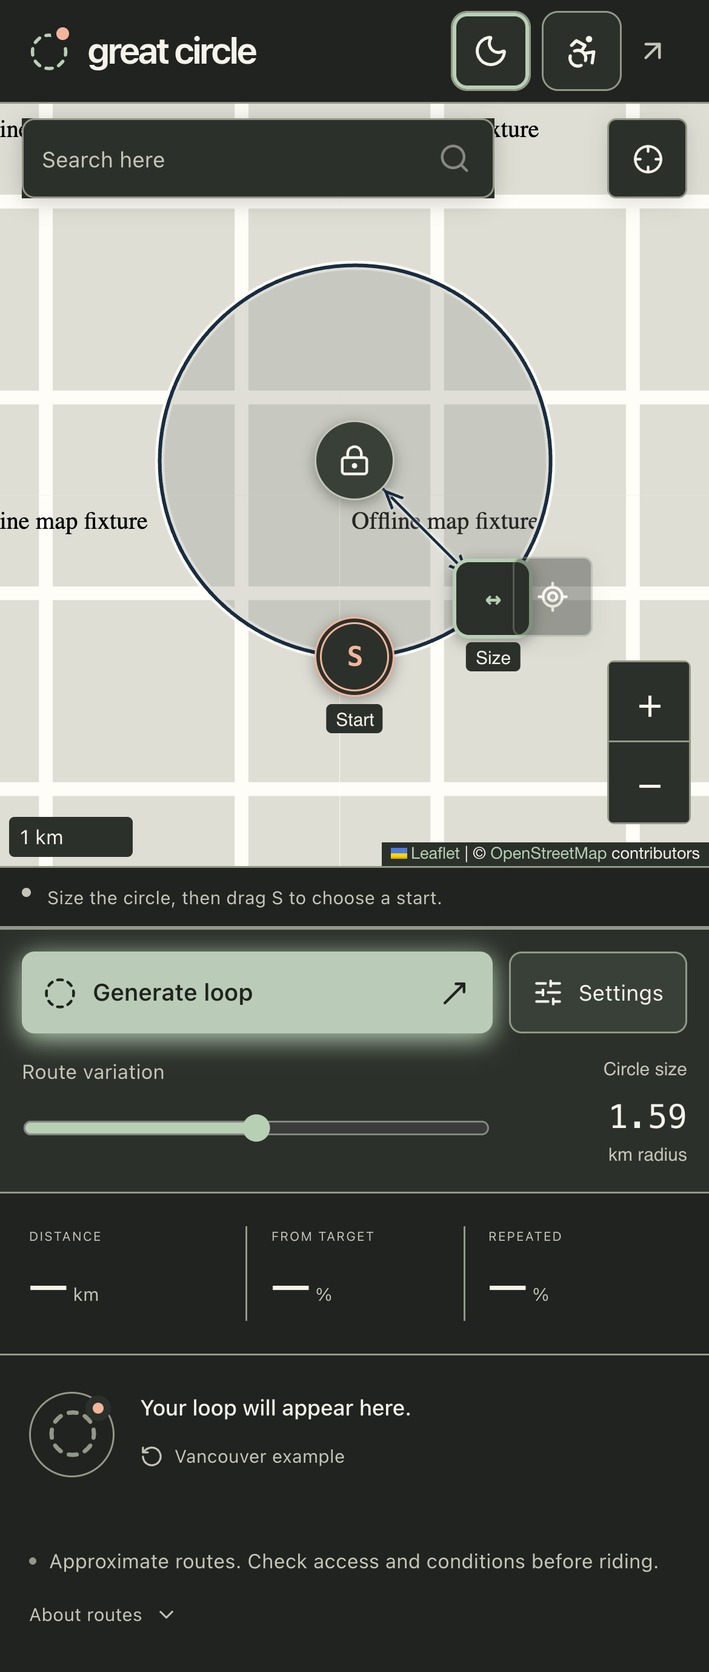
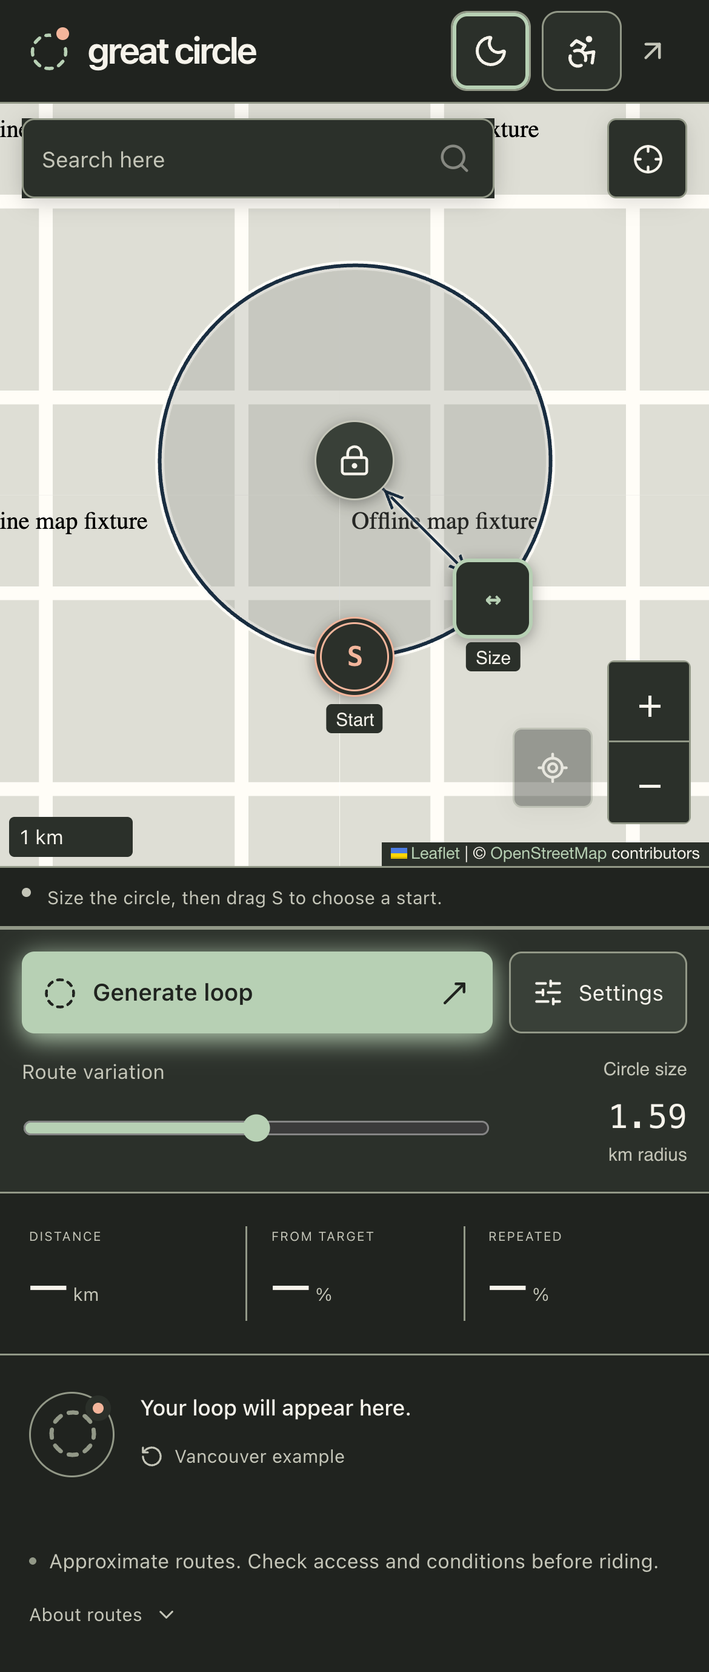
Keep map controls clear and apply theme colors atomically

Changed region(s): [[0.7385, 0.3119, 0.8615, 0.4055], [0.7077, 0.4367, 0.8615, 0.4991]]

diff --git a/src/style.css b/src/style.css
@@ -1,4 +1,4 @@
-:root{font-family:Inter,ui-sans-serif,-apple-system,BlinkMacSystemFont,"Segoe UI",sans-serif;color:var(--text);background:var(--bg);font-synthesis:none;text-rendering:optimizeLegibility;-webkit-font-smoothing:antialiased;font-weight:400;line-height:1.5;color-scheme:light dark;font-size:14px}*{box-sizing:border-box}body{margin:0;min-width:320px}button,input,select{font:inherit}button,a,input,select,summary{-webkit-tap-highlight-color:transparent}button{cursor:pointer}button:disabled{cursor:not-allowed;opacity:.45}a{color:inherit;text-decoration:none}button{display:inline-flex;align-items:center;justify-content:center;gap:8px;border:0;background:transparent;color:inherit}button,input,select{outline-offset:4px}button:focus-visible,a:focus-visible,summary:focus-visible{outline:2px solid var(--accent);outline-offset:4px}input:focus-visible,select:focus-visible{outline:2px solid var(--accent)}.app{max-width:1480px;margin:auto;padding:0 44px}.site-header{height:92px;border-bottom:1px solid var(--border);display:flex;align-items:center;justify-content:space-between}.brand{display:flex;align-items:center;gap:10px;font-size:23px;font-weight:650;letter-spacing:-1px}.brand-mark{color:var(--accent);position:relative;display:flex}.brand-mark i{width:7px;height:7px;position:absolute;top:0;right:0;background:var(--start);border-radius:50%;box-shadow:0 0 0 3px var(--bg)}.beta{font:9px/1.2 ui-monospace,SFMono-Regular,monospace;letter-spacing:1.2px;color:var(--muted);border:1px solid var(--border);padding:5px 7px;margin-left:12px;border-radius:4px}.header-link{display:flex;align-items:center;gap:8px;color:var(--muted);font-size:12px}.header-link:hover{color:var(--accent)}.intro{display:flex;align-items:center;justify-content:space-between;padding:36px 0 30px}.eyebrow{font-size:10px;letter-spacing:1.65px;font-weight:650;color:var(--muted);display:flex;align-items:center;gap:7px}.eyebrow>span{height:5px;width:5px;background:var(--start);border-radius:50%}h1{font-size:38px;line-height:1.15;letter-spacing:-1.7px;margin:10px 0 10px;font-weight:550}.intro p{margin:0;color:var(--muted);font-size:14px}.intro-note{display:flex;align-items:center;gap:13px;font-size:11px;line-height:1.8;color:var(--muted)}.intro-note svg{color:var(--accent)}.intro-note strong{color:var(--muted);font-weight:400}.workspace{display:grid;grid-template-columns:320px minmax(0,1fr);border:1px solid var(--border);border-radius:15px;overflow:hidden;background:var(--surface)}.planner{border-right:1px solid var(--border);background:var(--surface)}.panel-heading{height:53px;padding:0 23px;display:flex;align-items:center;justify-content:space-between;border-bottom:1px solid var(--border)}.panel-heading .eyebrow{color:var(--text);letter-spacing:1.5px}.tiny{font-family:ui-monospace,monospace;font-size:9px;color:var(--muted)}fieldset{padding:0;border:0;margin:0;min-width:0}.control-section{padding:22px 23px;border-bottom:1px solid var(--border)}.section-label{display:flex;align-items:center;gap:10px}.step{font:10px/22px ui-monospace,monospace;height:24px;width:24px;text-align:center;border:1px solid var(--border);border-radius:50%;color:var(--muted)}h2{font-size:13px;font-weight:550;margin:0;letter-spacing:-.15px}.helper{color:var(--muted);font-size:11px;line-height:1.7;margin:10px 0 14px}.segmented{display:flex;gap:3px;padding:4px;border:1px solid var(--border);background:var(--bg);border-radius:8px}.segmented button{flex:1;padding:8px 4px;font-size:11px;color:var(--muted);border-radius:5px}.segmented button.active{background:var(--raised);color:var(--text);box-shadow:0 1px 3px #0004}.segmented button.active svg{color:var(--accent)}.pin-readout{display:flex;align-items:center;gap:6px;font:10px ui-monospace,monospace;color:var(--muted);margin:14px 0 10px;white-space:nowrap}.pin-readout>span:last-child{margin-left:auto;font:8px ui-monospace,monospace;color:var(--muted);letter-spacing:.5px}.pin-dot{width:5px;height:5px;border:1px solid var(--accent);border-radius:50%}.coordinates{font-size:10px;color:var(--muted);margin-bottom:20px}.coordinates summary{display:flex;align-items:center;gap:5px;cursor:pointer;width:max-content}.coordinates summary::marker{content:''}.coordinates[open] summary{color:var(--muted);margin-bottom:10px}.coordinate-inputs{display:flex;gap:8px}.coordinate-inputs label{flex:1;min-width:0}.coordinate-inputs input{display:block;width:100%;background:var(--bg);border:1px solid var(--border);border-radius:5px;color:var(--text);padding:6px;margin:4px 0 8px;font:11px ui-monospace,monospace}.text-button{font-size:11px;padding:2px 0;color:var(--accent);gap:6px}.text-button:hover{color:var(--accent)}.input-error{color:var(--danger);font-size:11px}.range-label{display:flex;justify-content:space-between;align-items:center;font-size:11px;color:var(--muted)}.range-label output{font-size:14px;font-family:ui-monospace,monospace;color:var(--text)}.range-label small{color:var(--muted);font-size:10px}input[type=range]{width:100%;height:4px;accent-color:var(--accent);cursor:pointer;margin:15px 0 11px;display:block}.range-ends{display:flex;justify-content:space-between;font:9px ui-monospace,monospace;color:var(--muted)}.distance-input{display:flex;align-items:center;gap:10px;margin:19px 0 15px}.distance-input input{width:83px;background:none;border:0;border-bottom:1px solid var(--border);color:var(--text);line-height:1.1;font-size:39px;letter-spacing:-1.8px;padding:0 0 6px;-moz-appearance:textfield}.distance-input input::-webkit-inner-spin-button{display:none}.distance-input label{font-size:12px;color:var(--text);line-height:1.8}.distance-input small{display:block;color:var(--muted);font-size:10px}.distance-input>svg{color:var(--border);margin-left:auto}.quick-distances{display:flex;gap:6px;margin-bottom:17px}.quick-distances button{flex:1;border:1px solid var(--border);border-radius:5px;color:var(--muted);padding:6px 0;font-size:10px}.quick-distances button.active{border-color:var(--accent);color:var(--accent);background:var(--accent-bg)}.select-row{display:flex;justify-content:space-between;gap:10px;align-items:center;font-size:10px;color:var(--muted)}.select-row select{background:var(--raised);color:var(--text);border:1px solid var(--border);border-radius:5px;padding:6px 20px 6px 8px;font-size:10px;max-width:172px}.preferences .select-row{margin-top:16px}.preferences .helper{margin-bottom:0}.generate-area{padding:20px 23px 14px}.primary{width:100%;background:var(--accent);color:var(--on-accent);border-radius:7px;padding:12px 14px;gap:9px;font-weight:550;font-size:12px;box-shadow:0 3px 14px var(--accent);transition:background .15s}.primary svg:last-child{margin-left:auto}.primary:hover{background:var(--accent)}.primary.cancel{background:var(--raised);color:var(--text);border:1px solid var(--border)}.primary.cancel svg:last-child{margin-left:0}.request-note{font-size:9px;color:var(--muted);text-align:center;line-height:1.6;margin:10px 0 0}.route-space{min-width:0;display:flex;flex-direction:column}.map-shell{position:relative;height:460px;flex:none;background:var(--map-bg);isolation:isolate}.map{height:100%;width:100%;z-index:0}.map-topline{display:flex;position:absolute;top:18px;left:18px;right:18px;justify-content:space-between;align-items:flex-start;pointer-events:none}.map-tag,.map-button{background:var(--surface);border:1px solid var(--border);box-shadow:0 2px 12px #0002;color:var(--text);border-radius:5px;pointer-events:auto}.map-tag{padding:8px 10px;display:flex;align-items:center;gap:7px;font:9px ui-monospace,monospace;letter-spacing:1px}.live-dot{background:var(--start);height:5px;width:5px;border-radius:50%}.map-button{width:33px;height:33px}.map-hint{position:absolute;bottom:17px;left:50%;transform:translateX(-50%);background:var(--surface);border:1px solid var(--border);border-radius:6px;padding:8px 12px;font-size:10px;box-shadow:0 2px 12px #0002;color:var(--text);white-space:nowrap;pointer-events:none}.ideal-toggle{position:absolute;top:62px;right:18px;background:var(--surface);border:1px solid var(--border);border-radius:5px;padding:7px 10px;font-size:10px;color:var(--muted)}.ideal-toggle.selected{color:var(--warning)}.tile-warning{position:absolute;top:60px;left:18px;right:130px;background:var(--warning-bg);color:var(--warning);font-size:10px;line-height:1.5;padding:8px 10px;border-radius:5px}.leaflet-control-attribution{font-size:9px!important;background:var(--surface)!important;color:var(--muted)!important}.leaflet-control-attribution a{color:var(--accent)!important}.leaflet-control-scale-line{color:var(--text)!important;background:var(--surface)!important;border-color:var(--text)!important;font-size:9px!important;text-shadow:none!important}.leaflet-bar{border:1px solid var(--border)!important;box-shadow:none!important}.leaflet-bar a{background:var(--surface)!important;color:var(--text)!important;border-color:var(--border)!important}.start-icon{background:var(--surface);border:2px solid var(--start);border-radius:50%;color:var(--start);box-shadow:0 1px 7px #0005;font:600 11px/24px ui-monospace,monospace;text-align:center}.working .map{cursor:wait}.status-bar{height:45px;display:flex;align-items:center;gap:9px;padding:0 22px;font-size:10px;border-top:1px solid var(--border);border-bottom:1px solid var(--border);color:var(--muted)}.status-bar>svg{color:var(--accent);flex:none}.status-dot{width:5px;height:5px;border-radius:50%;background:var(--muted);flex:none}.local-badge{margin-left:auto;font:8px ui-monospace,monospace;letter-spacing:.8px;color:var(--muted);white-space:nowrap}.metrics{display:grid;grid-template-columns:1fr 1fr 1fr;padding:25px 24px;border-bottom:1px solid var(--border)}.metrics>div{padding:0 23px;border-left:1px solid var(--border)}.metrics>div:first-child{border:0;padding-left:0}.metrics>div:last-child{padding-right:0}.metrics span{font-size:8px;letter-spacing:1px;color:var(--muted);display:block;white-space:nowrap}.metrics strong{font-size:30px;letter-spacing:-1.3px;font-weight:500;display:block;margin:6px 0 5px;line-height:1.2;font-variant-numeric:tabular-nums}.metrics small{font-size:12px;font-weight:400;letter-spacing:0;color:var(--muted)}.metrics p{font-size:10px;color:var(--muted);margin:0}.route-bottom{padding:24px;flex:1}.empty-state{display:flex;align-items:center;gap:20px;padding:5px 0}.empty-orbit{height:62px;min-width:62px;border:1px solid var(--border);border-radius:50%;display:flex;align-items:center;justify-content:center;position:relative;color:var(--border)}.empty-orbit i{width:7px;height:7px;background:var(--start);position:absolute;right:9px;top:9px;border-radius:50%;box-shadow:0 0 0 4px var(--surface)}.empty-state h2{font-size:14px;color:var(--text);font-weight:500}.empty-state p{color:var(--muted);font-size:11px;line-height:1.8;max-width:400px;margin:5px 0 9px}.empty-state .text-button{color:var(--muted);font-size:10px}.export-heading{display:flex;align-items:center;gap:13px}.export-icon{display:flex;align-items:center;justify-content:center;border:1px solid var(--border);background:var(--accent-bg);color:var(--accent);width:43px;height:43px;border-radius:10px;flex:none}.export-heading h2{font-size:13px}.export-heading p{font-size:10px;color:var(--muted);margin:4px 0 0}.export-button{padding:10px 13px;background:var(--raised);border:1px solid var(--border);border-radius:6px;white-space:nowrap;font-size:11px;margin-left:auto}.export-button:hover{background:var(--raised)}.route-notes{font-size:10px;color:var(--muted);line-height:1.7;margin-top:17px}.route-notes p{margin:5px 0}.route-notes .data-time{color:var(--muted);font-size:9px}.error-box{margin:16px 22px 0;display:flex;align-items:flex-start;gap:10px;background:var(--danger-bg);border:1px solid var(--border);border-radius:7px;color:var(--danger);padding:13px;font-size:11px;line-height:1.7}.error-box svg{flex:none;margin-top:2px}.error-box strong{font-weight:550}.error-box p{margin:4px 0 0;color:var(--danger)}.spin{animation:spin 1.5s linear infinite}@keyframes spin{to{transform:rotate(360deg)}}footer{display:flex;align-items:flex-start;justify-content:space-between;gap:30px;padding:23px 0 30px;color:var(--muted);font-size:10px}footer>p{margin:0;display:flex;align-items:center;gap:7px;white-space:nowrap}.footer-dot{height:4px;width:4px;border-radius:50%;background:var(--border)}footer details{max-width:590px}footer summary{display:flex;gap:7px;align-items:center;justify-content:flex-end;cursor:pointer;color:var(--muted);list-style:none}footer details[open]>div{padding:9px 0;color:var(--muted);font-size:11px;line-height:1.8}footer details a{color:var(--accent)}
+:root{font-family:Inter,ui-sans-serif,-apple-system,BlinkMacSystemFont,"Segoe UI",sans-serif;color:var(--text);background:var(--bg);font-synthesis:none;text-rendering:optimizeLegibility;-webkit-font-smoothing:antialiased;font-weight:400;line-height:1.5;color-scheme:light dark;font-size:14px}*{box-sizing:border-box}body{margin:0;min-width:320px}button,input,select{font:inherit}button,a,input,select,summary{-webkit-tap-highlight-color:transparent}button{cursor:pointer}button:disabled{cursor:not-allowed;opacity:.45}a{color:inherit;text-decoration:none}button{display:inline-flex;align-items:center;justify-content:center;gap:8px;border:0;background:transparent;color:inherit}button,input,select{outline-offset:4px}button:focus-visible,a:focus-visible,summary:focus-visible{outline:2px solid var(--accent);outline-offset:4px}input:focus-visible,select:focus-visible{outline:2px solid var(--accent)}.app{max-width:1480px;margin:auto;padding:0 44px}.site-header{height:92px;border-bottom:1px solid var(--border);display:flex;align-items:center;justify-content:space-between}.brand{display:flex;align-items:center;gap:10px;font-size:23px;font-weight:650;letter-spacing:-1px}.brand-mark{color:var(--accent);position:relative;display:flex}.brand-mark i{width:7px;height:7px;position:absolute;top:0;right:0;background:var(--start);border-radius:50%;box-shadow:0 0 0 3px var(--bg)}.beta{font:9px/1.2 ui-monospace,SFMono-Regular,monospace;letter-spacing:1.2px;color:var(--muted);border:1px solid var(--border);padding:5px 7px;margin-left:12px;border-radius:4px}.header-link{display:flex;align-items:center;gap:8px;color:var(--muted);font-size:12px}.header-link:hover{color:var(--accent)}.intro{display:flex;align-items:center;justify-content:space-between;padding:36px 0 30px}.eyebrow{font-size:10px;letter-spacing:1.65px;font-weight:650;color:var(--muted);display:flex;align-items:center;gap:7px}.eyebrow>span{height:5px;width:5px;background:var(--start);border-radius:50%}h1{font-size:38px;line-height:1.15;letter-spacing:-1.7px;margin:10px 0 10px;font-weight:550}.intro p{margin:0;color:var(--muted);font-size:14px}.intro-note{display:flex;align-items:center;gap:13px;font-size:11px;line-height:1.8;color:var(--muted)}.intro-note svg{color:var(--accent)}.intro-note strong{color:var(--muted);font-weight:400}.workspace{display:grid;grid-template-columns:320px minmax(0,1fr);border:1px solid var(--border);border-radius:15px;overflow:hidden;background:var(--surface)}.planner{border-right:1px solid var(--border);background:var(--surface)}.panel-heading{height:53px;padding:0 23px;display:flex;align-items:center;justify-content:space-between;border-bottom:1px solid var(--border)}.panel-heading .eyebrow{color:var(--text);letter-spacing:1.5px}.tiny{font-family:ui-monospace,monospace;font-size:9px;color:var(--muted)}fieldset{padding:0;border:0;margin:0;min-width:0}.control-section{padding:22px 23px;border-bottom:1px solid var(--border)}.section-label{display:flex;align-items:center;gap:10px}.step{font:10px/22px ui-monospace,monospace;height:24px;width:24px;text-align:center;border:1px solid var(--border);border-radius:50%;color:var(--muted)}h2{font-size:13px;font-weight:550;margin:0;letter-spacing:-.15px}.helper{color:var(--muted);font-size:11px;line-height:1.7;margin:10px 0 14px}.segmented{display:flex;gap:3px;padding:4px;border:1px solid var(--border);background:var(--bg);border-radius:8px}.segmented button{flex:1;padding:8px 4px;font-size:11px;color:var(--muted);border-radius:5px}.segmented button.active{background:var(--raised);color:var(--text);box-shadow:0 1px 3px #0004}.segmented button.active svg{color:var(--accent)}.pin-readout{display:flex;align-items:center;gap:6px;font:10px ui-monospace,monospace;color:var(--muted);margin:14px 0 10px;white-space:nowrap}.pin-readout>span:last-child{margin-left:auto;font:8px ui-monospace,monospace;color:var(--muted);letter-spacing:.5px}.pin-dot{width:5px;height:5px;border:1px solid var(--accent);border-radius:50%}.coordinates{font-size:10px;color:var(--muted);margin-bottom:20px}.coordinates summary{display:flex;align-items:center;gap:5px;cursor:pointer;width:max-content}.coordinates summary::marker{content:''}.coordinates[open] summary{color:var(--muted);margin-bottom:10px}.coordinate-inputs{display:flex;gap:8px}.coordinate-inputs label{flex:1;min-width:0}.coordinate-inputs input{display:block;width:100%;background:var(--bg);border:1px solid var(--border);border-radius:5px;color:var(--text);padding:6px;margin:4px 0 8px;font:11px ui-monospace,monospace}.text-button{font-size:11px;padding:2px 0;color:var(--accent);gap:6px}.text-button:hover{color:var(--accent)}.input-error{color:var(--danger);font-size:11px}.range-label{display:flex;justify-content:space-between;align-items:center;font-size:11px;color:var(--muted)}.range-label output{font-size:14px;font-family:ui-monospace,monospace;color:var(--text)}.range-label small{color:var(--muted);font-size:10px}input[type=range]{width:100%;height:4px;accent-color:var(--accent);cursor:pointer;margin:15px 0 11px;display:block}.range-ends{display:flex;justify-content:space-between;font:9px ui-monospace,monospace;color:var(--muted)}.distance-input{display:flex;align-items:center;gap:10px;margin:19px 0 15px}.distance-input input{width:83px;background:none;border:0;border-bottom:1px solid var(--border);color:var(--text);line-height:1.1;font-size:39px;letter-spacing:-1.8px;padding:0 0 6px;-moz-appearance:textfield}.distance-input input::-webkit-inner-spin-button{display:none}.distance-input label{font-size:12px;color:var(--text);line-height:1.8}.distance-input small{display:block;color:var(--muted);font-size:10px}.distance-input>svg{color:var(--border);margin-left:auto}.quick-distances{display:flex;gap:6px;margin-bottom:17px}.quick-distances button{flex:1;border:1px solid var(--border);border-radius:5px;color:var(--muted);padding:6px 0;font-size:10px}.quick-distances button.active{border-color:var(--accent);color:var(--accent);background:var(--accent-bg)}.select-row{display:flex;justify-content:space-between;gap:10px;align-items:center;font-size:10px;color:var(--muted)}.select-row select{background:var(--raised);color:var(--text);border:1px solid var(--border);border-radius:5px;padding:6px 20px 6px 8px;font-size:10px;max-width:172px}.preferences .select-row{margin-top:16px}.preferences .helper{margin-bottom:0}.generate-area{padding:20px 23px 14px}.primary{width:100%;background:var(--accent);color:var(--on-accent);border-radius:7px;padding:12px 14px;gap:9px;font-weight:550;font-size:12px;box-shadow:0 3px 14px var(--accent)}.primary svg:last-child{margin-left:auto}.primary:hover{background:var(--accent)}.primary.cancel{background:var(--raised);color:var(--text);border:1px solid var(--border)}.primary.cancel svg:last-child{margin-left:0}.request-note{font-size:9px;color:var(--muted);text-align:center;line-height:1.6;margin:10px 0 0}.route-space{min-width:0;display:flex;flex-direction:column}.map-shell{position:relative;height:460px;flex:none;background:var(--map-bg);isolation:isolate}.map{height:100%;width:100%;z-index:0}.map-topline{display:flex;position:absolute;top:18px;left:18px;right:18px;justify-content:space-between;align-items:flex-start;pointer-events:none}.map-tag,.map-button{background:var(--surface);border:1px solid var(--border);box-shadow:0 2px 12px #0002;color:var(--text);border-radius:5px;pointer-events:auto}.map-tag{padding:8px 10px;display:flex;align-items:center;gap:7px;font:9px ui-monospace,monospace;letter-spacing:1px}.live-dot{background:var(--start);height:5px;width:5px;border-radius:50%}.map-button{width:33px;height:33px}.map-hint{position:absolute;bottom:17px;left:50%;transform:translateX(-50%);background:var(--surface);border:1px solid var(--border);border-radius:6px;padding:8px 12px;font-size:10px;box-shadow:0 2px 12px #0002;color:var(--text);white-space:nowrap;pointer-events:none}.ideal-toggle{position:absolute;top:62px;right:18px;background:var(--surface);border:1px solid var(--border);border-radius:5px;padding:7px 10px;font-size:10px;color:var(--muted)}.ideal-toggle.selected{color:var(--warning)}.tile-warning{position:absolute;top:60px;left:18px;right:130px;background:var(--warning-bg);color:var(--warning);font-size:10px;line-height:1.5;padding:8px 10px;border-radius:5px}.leaflet-control-attribution{font-size:9px!important;background:var(--surface)!important;color:var(--muted)!important}.leaflet-control-attribution a{color:var(--accent)!important}.leaflet-control-scale-line{color:var(--text)!important;background:var(--surface)!important;border-color:var(--text)!important;font-size:9px!important;text-shadow:none!important}.leaflet-bar{border:1px solid var(--border)!important;box-shadow:none!important}.leaflet-bar a{background:var(--surface)!important;color:var(--text)!important;border-color:var(--border)!important}.start-icon{background:var(--surface);border:2px solid var(--start);border-radius:50%;color:var(--start);box-shadow:0 1px 7px #0005;font:600 11px/24px ui-monospace,monospace;text-align:center}.working .map{cursor:wait}.status-bar{height:45px;display:flex;align-items:center;gap:9px;padding:0 22px;font-size:10px;border-top:1px solid var(--border);border-bottom:1px solid var(--border);color:var(--muted)}.status-bar>svg{color:var(--accent);flex:none}.status-dot{width:5px;height:5px;border-radius:50%;background:var(--muted);flex:none}.local-badge{margin-left:auto;font:8px ui-monospace,monospace;letter-spacing:.8px;color:var(--muted);white-space:nowrap}.metrics{display:grid;grid-template-columns:1fr 1fr 1fr;padding:25px 24px;border-bottom:1px solid var(--border)}.metrics>div{padding:0 23px;border-left:1px solid var(--border)}.metrics>div:first-child{border:0;padding-left:0}.metrics>div:last-child{padding-right:0}.metrics span{font-size:8px;letter-spacing:1px;color:var(--muted);display:block;white-space:nowrap}.metrics strong{font-size:30px;letter-spacing:-1.3px;font-weight:500;display:block;margin:6px 0 5px;line-height:1.2;font-variant-numeric:tabular-nums}.metrics small{font-size:12px;font-weight:400;letter-spacing:0;color:var(--muted)}.metrics p{font-size:10px;color:var(--muted);margin:0}.route-bottom{padding:24px;flex:1}.empty-state{display:flex;align-items:center;gap:20px;padding:5px 0}.empty-orbit{height:62px;min-width:62px;border:1px solid var(--border);border-radius:50%;display:flex;align-items:center;justify-content:center;position:relative;color:var(--border)}.empty-orbit i{width:7px;height:7px;background:var(--start);position:absolute;right:9px;top:9px;border-radius:50%;box-shadow:0 0 0 4px var(--surface)}.empty-state h2{font-size:14px;color:var(--text);font-weight:500}.empty-state p{color:var(--muted);font-size:11px;line-height:1.8;max-width:400px;margin:5px 0 9px}.empty-state .text-button{color:var(--muted);font-size:10px}.export-heading{display:flex;align-items:center;gap:13px}.export-icon{display:flex;align-items:center;justify-content:center;border:1px solid var(--border);background:var(--accent-bg);color:var(--accent);width:43px;height:43px;border-radius:10px;flex:none}.export-heading h2{font-size:13px}.export-heading p{font-size:10px;color:var(--muted);margin:4px 0 0}.export-button{padding:10px 13px;background:var(--raised);border:1px solid var(--border);border-radius:6px;white-space:nowrap;font-size:11px;margin-left:auto}.export-button:hover{background:var(--raised)}.route-notes{font-size:10px;color:var(--muted);line-height:1.7;margin-top:17px}.route-notes p{margin:5px 0}.route-notes .data-time{color:var(--muted);font-size:9px}.error-box{margin:16px 22px 0;display:flex;align-items:flex-start;gap:10px;background:var(--danger-bg);border:1px solid var(--border);border-radius:7px;color:var(--danger);padding:13px;font-size:11px;line-height:1.7}.error-box svg{flex:none;margin-top:2px}.error-box strong{font-weight:550}.error-box p{margin:4px 0 0;color:var(--danger)}.spin{animation:spin 1.5s linear infinite}@keyframes spin{to{transform:rotate(360deg)}}footer{display:flex;align-items:flex-start;justify-content:space-between;gap:30px;padding:23px 0 30px;color:var(--muted);font-size:10px}footer>p{margin:0;display:flex;align-items:center;gap:7px;white-space:nowrap}.footer-dot{height:4px;width:4px;border-radius:50%;background:var(--border)}footer details{max-width:590px}footer summary{display:flex;gap:7px;align-items:center;justify-content:flex-end;cursor:pointer;color:var(--muted);list-style:none}footer details[open]>div{padding:9px 0;color:var(--muted);font-size:11px;line-height:1.8}footer details a{color:var(--accent)}
 @media(min-width:1400px){.map-shell{height:490px}.control-section{padding-top:24px;padding-bottom:24px}}
 @media(max-width:1100px){.app{padding:0 24px}.workspace{grid-template-columns:295px minmax(0,1fr)}.control-section{padding:20px}.generate-area{padding:20px}.metrics{padding:22px 18px}.metrics>div{padding:0 14px}.metrics span{font-size:7px;letter-spacing:.6px}.metrics strong{font-size:26px}.metrics p{font-size:9px}.local-badge{display:none}.export-heading{flex-wrap:wrap}.export-button{margin:10px 0 0 56px}.route-bottom{padding:21px}.intro-note{display:none}.map-hint{font-size:9px}}
 @media(max-width:760px){.app{padding:0 16px}.site-header{height:72px}.brand{font-size:21px}.beta{font-size:7px;margin-left:4px;padding:4px}.header-link{font-size:0;gap:0}.header-link svg{width:18px;height:18px}.intro{padding:29px 0 24px}.eyebrow{font-size:8px}h1{font-size:32px;margin:10px 0;letter-spacing:-1.4px}.intro p{font-size:12px}.workspace{grid-template-columns:1fr;overflow:visible;border:0;background:none;gap:16px}.planner{border:1px solid var(--border);border-radius:12px;overflow:hidden}.panel-heading{height:44px}.planner fieldset{display:grid;grid-template-columns:1fr 1fr}.control-section{padding:18px;min-width:0}.control-section:first-child{grid-column:1/-1;display:grid;grid-template-columns:1fr 1fr;column-gap:24px}.control-section:first-child>.section-label,.control-section:first-child>.helper,.control-section:first-child>.segmented,.control-section:first-child>.pin-readout,.control-section:first-child>.coordinates{grid-column:1/-1}.control-section:first-child>.helper{margin:8px 0 12px}.control-section:first-child>.coordinates{margin-bottom:15px}.control-section:first-child>.range-label{grid-column:1/-1}.control-section:first-child>input,.control-section:first-child>.range-ends{grid-column:1/-1}.control-section.preferences{border-left:1px solid var(--border)}.section-label{gap:7px}h2{font-size:12px}.step{font-size:9px;width:20px;height:20px;line-height:18px}.preferences .select-row{flex-direction:column;align-items:stretch;gap:5px;margin-top:12px}.preferences .select-row select{max-width:none;width:100%}.distance-input{margin:15px 0 14px;gap:6px}.distance-input input{font-size:33px;width:58px}.distance-input>svg{display:none}.distance-input label{font-size:10px}.distance-input small{font-size:8px}.quick-distances{gap:4px;margin-bottom:13px;flex-wrap:wrap}.quick-distances button{font-size:9px;padding:5px 4px;min-width:42%}.control-section:not(:first-child)>.select-row{flex-direction:column;align-items:stretch;gap:5px}.select-row select{max-width:none}.preferences .helper{font-size:10px;line-height:1.7}.generate-area{padding:17px 18px 14px}.primary{padding:12px;font-size:13px}.request-note{font-size:9px}.route-space{border:1px solid var(--border);border-radius:12px;overflow:hidden}.map-shell{height:400px}.map-topline{top:14px;left:14px;right:14px}.status-bar{padding:11px 16px;min-height:48px;height:auto;align-items:flex-start;line-height:1.6}.status-bar>svg,.status-dot{margin-top:3px}.metrics{padding:20px 16px}.metrics>div{padding:0 13px}.metrics strong{font-size:25px}.metrics small{font-size:10px}.metrics span{font-size:7px;letter-spacing:.5px}.metrics p{font-size:9px;line-height:1.6}.route-bottom{padding:20px 16px}.empty-state{gap:14px;padding:2px 0}.empty-orbit{height:47px;min-width:47px}.empty-orbit svg{width:28px}.empty-orbit i{top:5px;right:5px;width:6px;height:6px}.empty-state h2{font-size:12px}.empty-state p{font-size:10px}.export-heading h2{font-size:12px}.export-heading p{font-size:9px}.export-button{margin-left:0;width:100%;margin-top:8px}.export-icon{width:35px;height:35px}.export-icon svg{width:19px}.route-notes{font-size:10px}footer{flex-direction:column;gap:15px;padding:23px 3px}footer summary{justify-content:flex-start}.map-hint{bottom:24px;max-width:80%;white-space:normal;text-align:center;width:max-content}.tile-warning{right:60px;left:14px;font-size:9px}.ideal-toggle{right:14px}.coordinate-inputs{max-width:370px}.error-box{margin:14px 16px 0}}
@@ -110,4 +110,4 @@ footer>.routing-attribution{white-space:normal;flex-wrap:wrap;font-size:10px}foo
 @media(forced-colors:active){.appearance-button,.palette-option,.circle-handle{border:2px solid ButtonText}.palette-option:has(:checked){outline:3px solid Highlight}.map .route-line,.target-ring{stroke:CanvasText}.map .route-halo{stroke:Canvas}.primary{border:2px solid ButtonText}}
 .device-theme-button{min-height:44px;padding:8px 12px;border:1px solid var(--border);border-radius:8px;margin-top:8px;background:var(--raised);color:var(--text)}.target-ring-halo{fill:none;stroke:#fffdf7;stroke-width:5;pointer-events:none}
 @media(max-width:760px){.mobile-layout .site-header{height:auto;min-height:56px;flex-wrap:wrap;gap:8px;padding-top:max(6px,env(safe-area-inset-top));padding-bottom:6px}.header-actions{flex:none}.site-header .brand{white-space:nowrap}}
-.locate-button,.mobile-layout .locate-button{right:calc(64px + env(safe-area-inset-right));bottom:126px}
+.locate-button,.mobile-layout .locate-button{right:calc(64px + env(safe-area-inset-right));bottom:32px}.locate-button:disabled{pointer-events:none}

diff --git a/tests/browser/appearance.spec.ts b/tests/browser/appearance.spec.ts
@@ -7,7 +7,7 @@ test.beforeEach(async ({page}) => {
 });
 test('all eight appearance combinations retain circle state and meet rendered text contrast', async ({page}, info) => {
  await page.goto('/');
- for(const selector of ['.leaflet-control-zoom','.map-topline .map-button']) {const a=(await page.locator('.locate-button').boundingBox())!,b=(await page.locator(selector).boundingBox())!;expect(a.x<b.x+b.width&&a.x+a.width>b.x&&a.y<b.y+b.height&&a.y+a.height>b.y).toBe(false);}
+ for(const selector of ['.leaflet-control-zoom','.map-topline .map-button','.size-handle','.start-handle']) {const a=(await page.locator('.locate-button').boundingBox())!,b=(await page.locator(selector).boundingBox())!;expect(a.x<b.x+b.width&&a.x+a.width>b.x&&a.y<b.y+b.height&&a.y+a.height>b.y).toBe(false);}
  const report: unknown[] = [];
  const radius = await page.getByRole('slider',{name:'Circle radius',exact:true}).getAttribute('aria-valuenow');
  for (const theme of ['light','dark']) {
@@ -81,4 +81,34 @@ test('generated route survives every palette with contrasting casing and GPX ava
   if(theme==='light'&&palette==='red-green')await page.screenshot({path:`review/route-red-green-${info.project.name}.png`,fullPage:true});
  }
  await writeFile(`review/route-contrast-${info.project.name}.json`,JSON.stringify(report,null,2));
+});
+
+test('default circle handles clear disabled locate, Fit and zoom before any radius editing',async({page},info)=>{
+ for(const [width,height] of [[390,844],[320,568],[844,390]]){
+  await page.setViewportSize({width,height});await page.goto('/');await page.evaluate(()=>localStorage.clear());await page.reload();
+  await expect(page.getByRole('slider',{name:'Circle radius',exact:true})).toBeVisible();
+  const locate=page.locator('.locate-button');await expect(locate).toBeDisabled();await expect(locate).toHaveCSS('pointer-events','none');
+  const a=(await locate.boundingBox())!;
+  for(const selector of ['.size-handle','.start-handle','.center-lock','.map-topline .map-button','.leaflet-control-zoom']){
+   const b=(await page.locator(selector).boundingBox())!;
+   expect(a.x<b.x+b.width&&a.x+a.width>b.x&&a.y<b.y+b.height&&a.y+a.height>b.y,JSON.stringify({width,height,selector,locate:a,other:b})).toBe(false);
+  }
+  if(width===390){await page.getByRole('button',{name:'Dark mode'}).click();await page.screenshot({path:`review/default-control-clearance-${info.project.name}.png`,fullPage:true});}
+ }
+});
+
+test('theme and palette transitions retain primary contrast in the same event task',async({page})=>{
+ await page.emulateMedia({reducedMotion:'no-preference',colorScheme:'light'});await page.goto('/');
+ const immediate = async(selector:string) => page.evaluate(selector=>{
+  const primary=document.querySelector<HTMLElement>('.primary')!;getComputedStyle(primary).backgroundColor;
+  document.querySelector<HTMLElement>(selector)!.click();
+  const style=getComputedStyle(primary);
+  const luminance=(value:string)=>{const channels=(value.match(/[\d.]+/g)??[]).map(Number).slice(0,3).map(v=>{v/=255;return v<=.04045?v/12.92:((v+.055)/1.055)**2.4;});return channels[0]*.2126+channels[1]*.7152+channels[2]*.0722;};
+  const a=luminance(style.color),b=luminance(style.backgroundColor);return(Math.max(a,b)+.05)/(Math.min(a,b)+.05);
+ },selector);
+ for(const palette of palettes){
+  await page.getByRole('button',{name:'Accessibility',exact:true}).click();expect(await immediate(`input[value="${palette}"]`)).toBeGreaterThanOrEqual(4.5);await page.keyboard.press('Escape');
+  expect(await immediate('button[aria-label="Dark mode"]')).toBeGreaterThanOrEqual(4.5);
+  expect(await immediate('button[aria-label="Dark mode"]')).toBeGreaterThanOrEqual(4.5);
+ }
 });

diff --git a/tests/browser/search.spec.ts b/tests/browser/search.spec.ts
@@ -24,5 +24,5 @@ test('search errors, empty response, cancel and no accidental map changes',async
 test('location control remains disabled and cannot disclose device coordinates',async({page})=>{
   await page.addInitScript(()=>{Object.defineProperty(navigator,'geolocation',{configurable:true,get(){throw new Error('Unexpected location access');}});});
   await page.goto('/');const locate=page.getByRole('button',{name:'Locate me (temporarily unavailable)',exact:true});await expect(locate).toBeDisabled();
-  const zoom=(await page.getByRole('button',{name:'Zoom in',exact:true}).boundingBox())!,b=(await locate.boundingBox())!;expect(b.y+b.height).toBeLessThanOrEqual(zoom.y);
+  const zoom=(await page.locator('.leaflet-control-zoom').boundingBox())!,b=(await locate.boundingBox())!;expect(b.x<zoom.x+zoom.width&&b.x+b.width>zoom.x&&b.y<zoom.y+zoom.height&&b.y+b.height>zoom.y).toBe(false);await expect(locate).toHaveCSS('pointer-events','none');
 });

diff --git a/docs/appearance.md b/docs/appearance.md
@@ -13,6 +13,7 @@ Map Start remains labeled S/Start with a double circular border. Size remains la
 - `npm run build` / `npm run typecheck`: pass.
 - `npm test`: all 135 tests pass (22 files), including mocked backend requests. The localhost suite requires permission to listen outside the restricted sandbox.
 - `tests/browser/appearance.spec.ts`: desktop and mobile tests cover all eight combinations, computed rendered foreground/background contrast (4.5:1 regular text, 3:1 qualifying large text), rendered control boundaries and route/casing contrast (3:1), independent persistence, live system fallback, explicit override/reset, denied storage, native dialog keyboard/focus behavior, 390px layout, 200% text enlargement, reduced motion and forced colors.
+- Follow-up review checks: **22 passed, 4 expected project-specific skips** across appearance, mobile layout and search. Disabled Locate sits alongside zoom with pointer events disabled; explicit pre-edit assertions cover the historical 1.59 km circle and fresh defaults at portrait/landscape sizes. Palette/theme changes retain primary-button contrast in the same event task with normal motion enabled; color transitions are disabled. All synthetic screenshots were refreshed after these corrections.
 - Full offline Chromium browser suite: **88 passed, 8 expected project-specific skips**. The extra 200% text-enlargement overflow/screenshot checks also pass on both projects. Existing offline browser suite exercises circle/center/start/size interaction, map gestures, route generation, failures/cancellation and closed GPX export. No routing/provider calls are made by these tests; tiles and road data use fixtures.
 - `review/contrast-*.json` records computed text/input/placeholder and essential boundary pairs in each combination: minimum text **5.8466:1**, minimum essential control boundary **3.1512:1**. `review/route-contrast-*.json` records minimum route/casing contrast **8.8827:1**.
 - `review/` contains actual Chromium captures at desktop and emulated iPhone dimensions. Map content is a labeled offline fixture, not a live map screenshot. The light/dark Standard and high-contrast views, generated red–green route, and accessibility dialog are represented.
